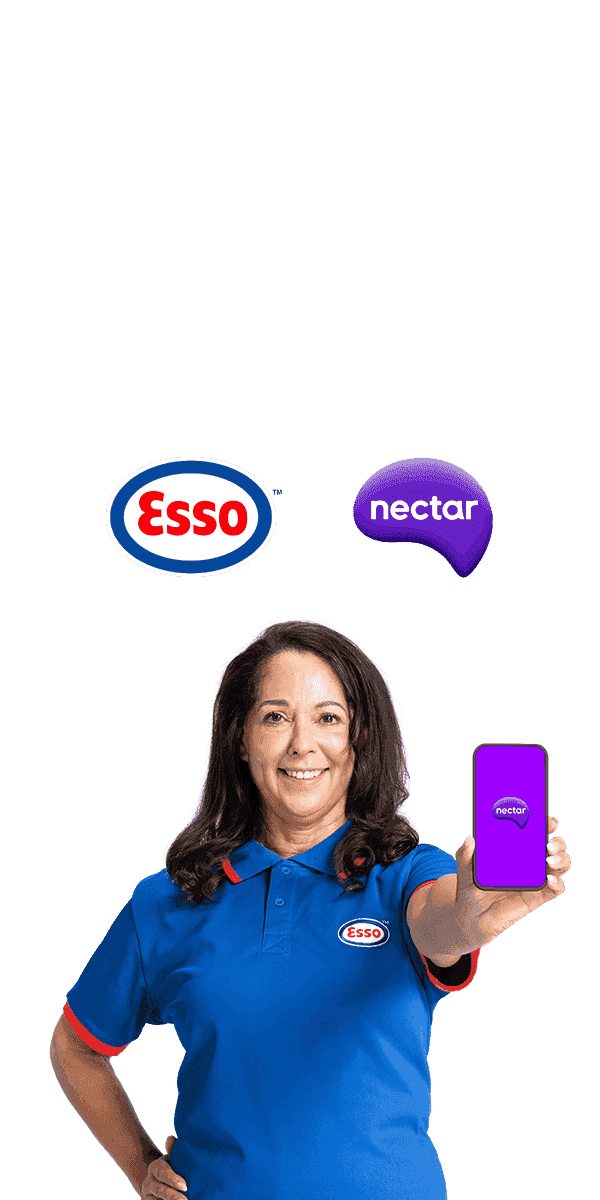
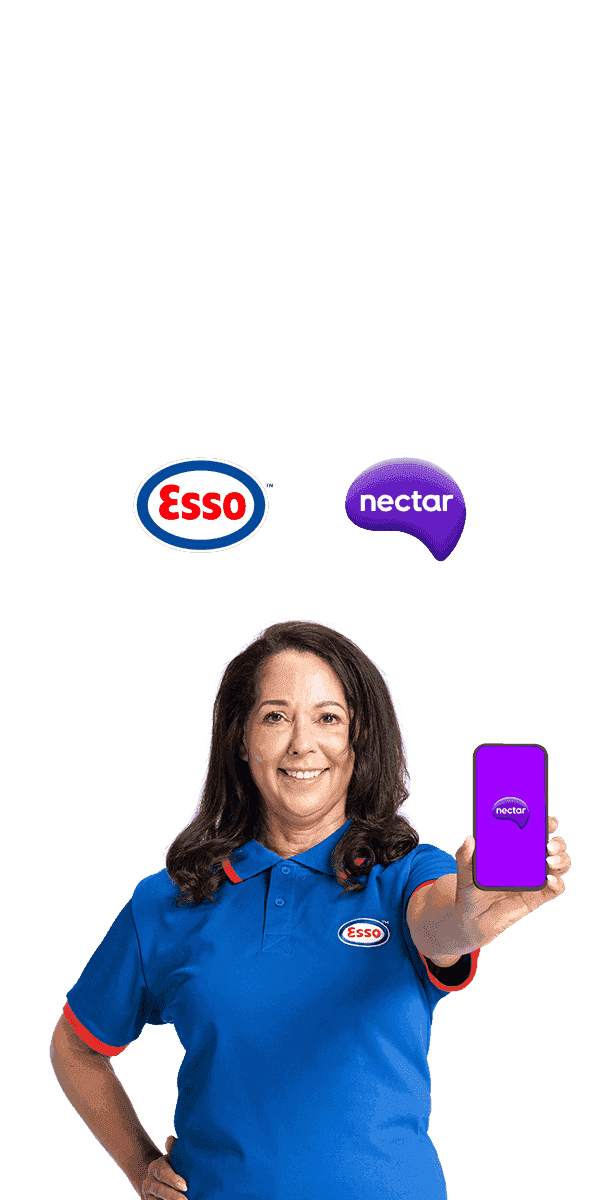
Add files via upload

diff --git a/728x90/styles.css b/728x90/styles.css
@@ -111,9 +111,10 @@ video {
   src: url("./subset-EMprint-Bold.woff");
 }
 #logo{
-  width: 68px;
+  width: 64.5px;
   right: 30px;
-  top: 20px;
+  top: 50%;
+  transform: translateY(-50%);
 }
 
 .textContainer {
@@ -155,8 +156,8 @@ video {
 }
 
 #cta img {
-  height: 14px;
+  height: 13px;
   width: auto;
-  margin-left: 2px;
-  margin-top: 3px;
+  margin-left: 5px;
+  margin-top: 4px;
 }

diff --git a/728x90/index.html b/728x90/index.html
@@ -45,7 +45,7 @@
           <div id="text3" class="hidden">and 3x Nectar points<br>on your first fill before<br>1st January.</div>
         </div>
         <div id="cta" class="hidden">
-          Find us<img src="./images/chevron.svg" >
+          <span>Find us</span> <img src="./images/chevron.svg" >
         </div>
         <!--end main_content-->
       </div>

diff --git a/300x600/styles.css b/300x600/styles.css
@@ -119,8 +119,9 @@ video {
   src: url("./subset-EMprint-Bold.woff");
 }
 #logo{
-  width: 89px;
-  left: 105px;
+  width: 70px;
+  left: 50%;
+  transform: translateX(-50%);
   top: 183px;
 }
 #person2 {
@@ -168,7 +169,7 @@ video {
 }
 
 #cta img {
-  height: 15px;
+  height: 14px;
   width: auto;
   margin-left: 5px;
   margin-top: 4px;

diff --git a/300x250/styles.css b/300x250/styles.css
@@ -124,7 +124,7 @@ video {
   top: -2px;
 }
 #logo{
-  width: 66px;
+  width: 64px;
   left: 178px;
   top: 183px;
 }
@@ -168,6 +168,6 @@ video {
 #cta img {
   height: 12px;
   width: auto;
-  margin-left: 3px;
+  margin-left: 4px;
   margin-top: 3px;
 }

diff --git a/160x600/styles.css b/160x600/styles.css
@@ -90,8 +90,9 @@ button,div,img,svg,video{
 #logo{
   position: absolute;
   top: 197px;
-  left: 35px;
-  width: 91px;
+  width: 64px;
+  left: 50%;
+  transform: translateX(-50%);
 }
 #person1 {
   left: -20px;

diff --git a/970x250/styles.css b/970x250/styles.css
@@ -147,7 +147,7 @@ video {
   margin-top: 4px;
 }
 #logo{
-  width: 92px;
-  left: 683px;
+  width: 75px;
+  right: 206px;
   top: 160px;
 }
